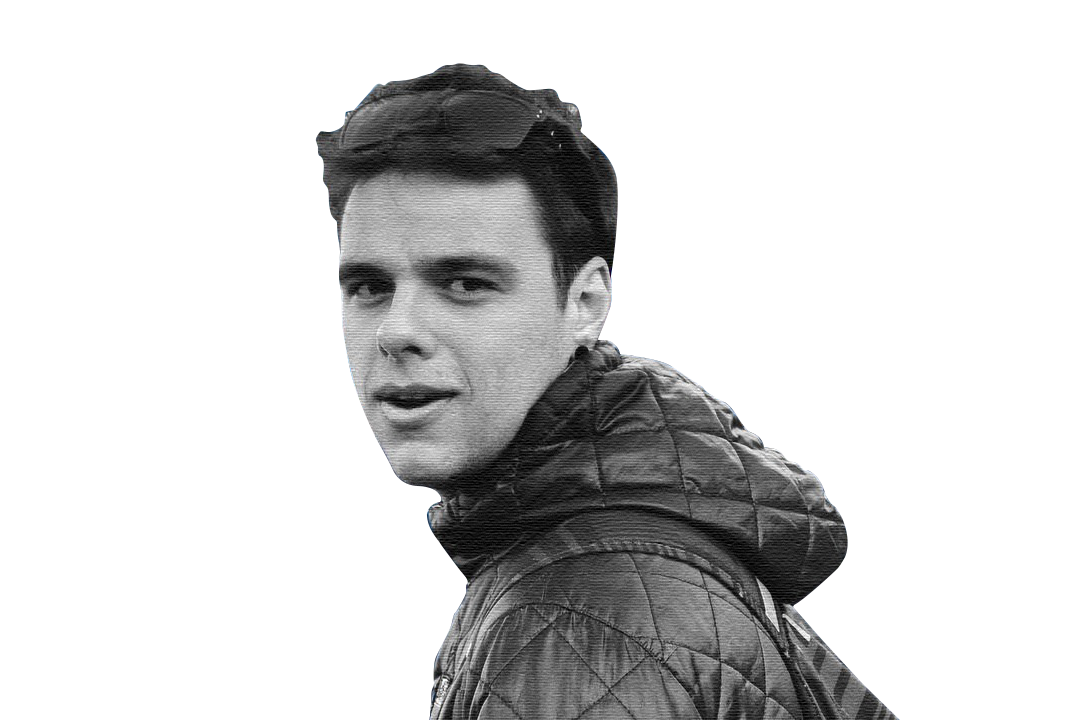
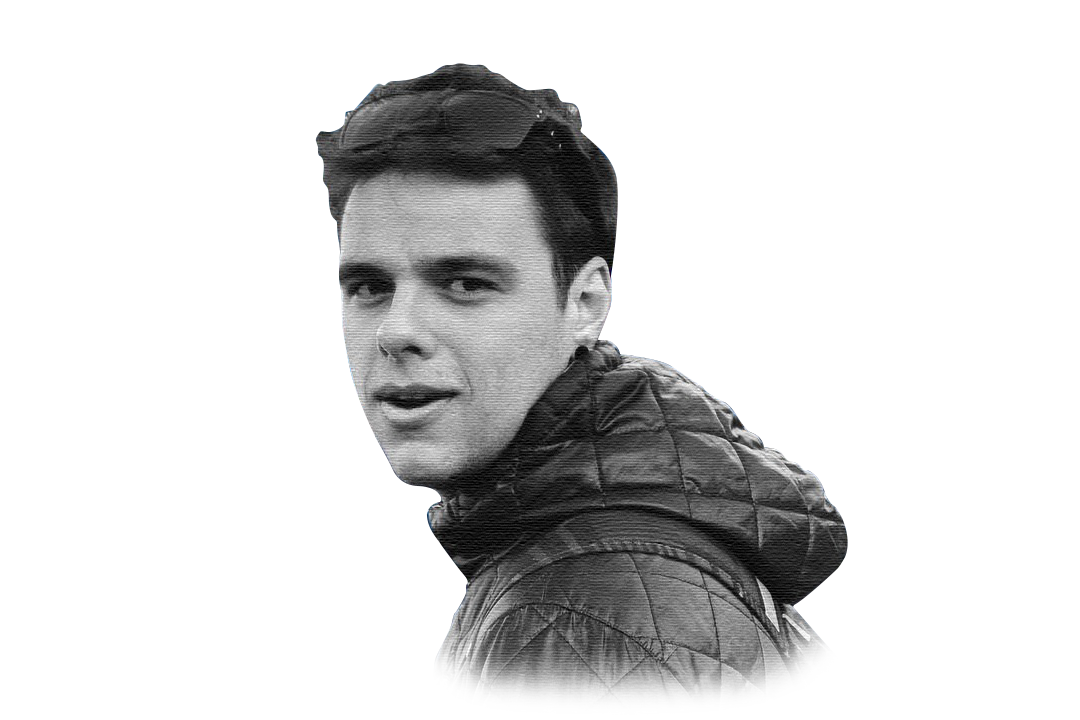
AboutImage

Changed region(s): [[0.3972, 0.8556, 0.825, 1.0]]

diff --git a/index.css b/index.css
@@ -575,19 +575,31 @@ body:not(.user-is-tabbing) a:focus {
     }
 }
 
-.about__photo-container {
-    margin-bottom: var(--gutter-normal);
-}
 
 @media(min-width: 901px) {
     .about__text {
         flex: 0 0 35%;
     }
     
-    .about__photo-container {
-        flex: 1;
-        margin: 0 var(--gutter-huge) 0 0;
-    }
+}
+
+.parent {
+  position: relative;
+  top: 0;
+  left: 0;
+  margin-bottom: var(--gutter-normal);
+  flex: 1;
+  margin: 0 var(--gutter-huge) 0 0;
+}
+.image1 {
+  position: relative;
+  top: 0;
+  left: 0;
+}
+.image2 {
+  position: absolute;
+  top: 0px;
+  left: 0px;
 }
 
 /* --------------------------------------- */

diff --git a/index.html b/index.html
@@ -183,9 +183,10 @@
             <a href="#" class="btn">My Resume</a>
           </div>
 
-          <div class="about__photo-container">
+          <div class="parent">
             <!-- Add a nice photo of yourself -->
-            <img class="about__photo" src="./images/me.png" alt="" />
+            <img class="image1" src="./images/faixa.png" alt="" />
+            <img class="image2" src="./images/me.png" alt="" />
           </div>
         </div>
       </div>

diff --git a/index.js b/index.js
@@ -41,3 +41,5 @@ window.addEventListener("scroll", () => {
     alterStyles(isBackToTopRendered);
   }
 });
+
+
